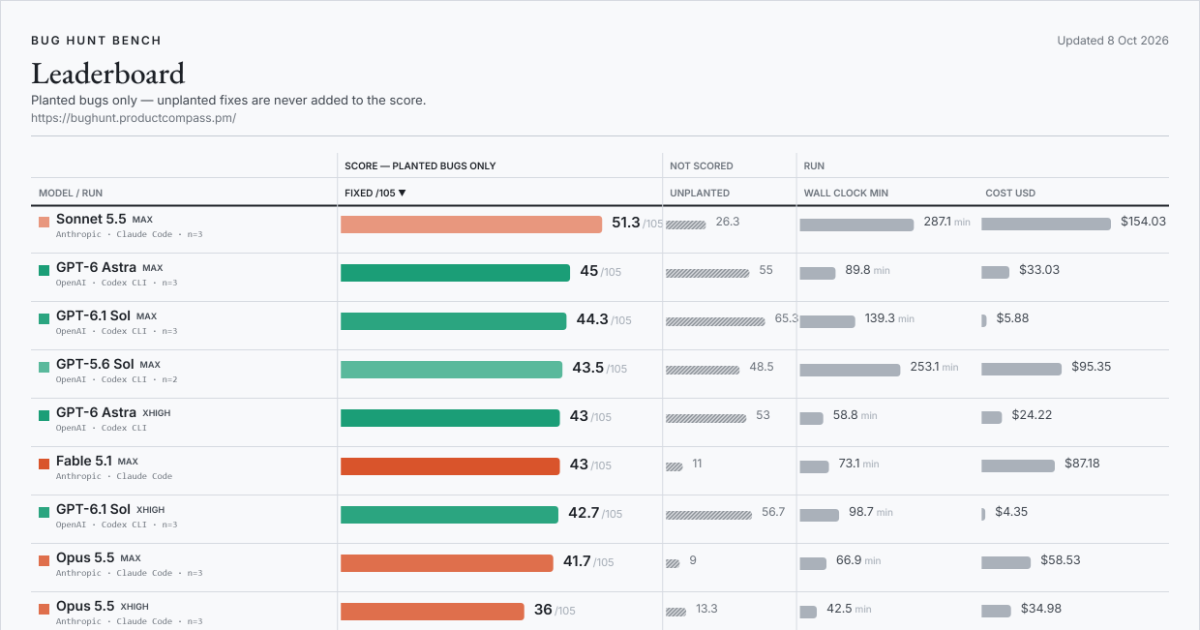
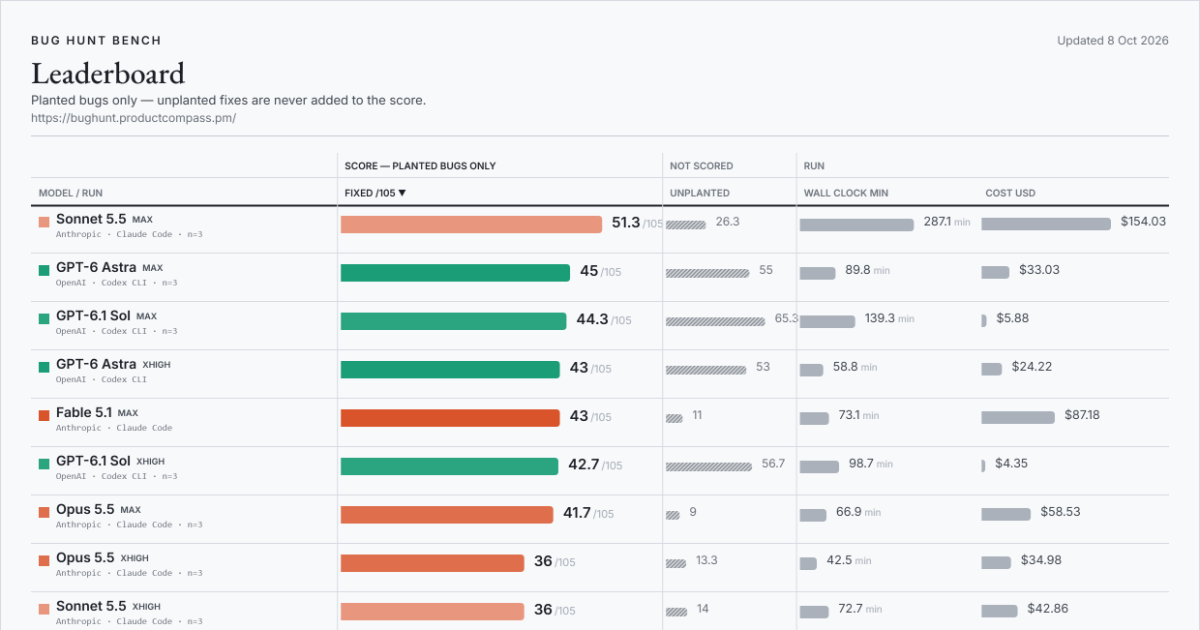
site: featured view - Haiku 5.5 max and xhigh in; Sonnet 5, Opus 5, Mistral Large 4 and GPT-5.6 Sol out

diff --git a/index.html b/index.html
@@ -22,14 +22,14 @@
 <meta property="og:title" content="Bug Hunt Bench — frontier coding models against real planted bugs">
 <meta property="og:description" content="A blind-graded benchmark of frontier coding models on real bugs planted in two production codebases. The score counts planted bugs only; extra fixes are tracked separately and never added.">
 <meta property="og:url" content="https://bughunt.productcompass.pm/">
-<meta property="og:image" content="https://bughunt.productcompass.pm/og-image.png?v=2026-10-08-44163af8">
+<meta property="og:image" content="https://bughunt.productcompass.pm/og-image.png?v=2026-10-08-add0164f">
 <meta property="og:image:width" content="1200">
 <meta property="og:image:height" content="630">
 <meta property="og:image:alt" content="Bug Hunt Bench leaderboard">
 <meta name="twitter:card" content="summary_large_image">
 <meta name="twitter:title" content="Bug Hunt Bench — frontier coding models against real planted bugs">
 <meta name="twitter:description" content="A blind-graded benchmark of frontier coding models on real bugs planted in two production codebases. The score counts planted bugs only.">
-<meta name="twitter:image" content="https://bughunt.productcompass.pm/og-image.png?v=2026-10-08-44163af8">
+<meta name="twitter:image" content="https://bughunt.productcompass.pm/og-image.png?v=2026-10-08-add0164f">
 <meta name="twitter:creator" content="@PawelHuryn">
 
 <link rel="icon" href="/assets/favicon.svg" type="image/svg+xml">

diff --git a/method.html b/method.html
@@ -20,14 +20,14 @@
 <meta property="og:title" content="Method, caveats and definitions — Bug Hunt Bench">
 <meta property="og:description" content="How Bug Hunt Bench is run and graded, what the board cannot tell you, and what every column on it means.">
 <meta property="og:url" content="https://bughunt.productcompass.pm/method">
-<meta property="og:image" content="https://bughunt.productcompass.pm/og-image.png?v=2026-10-08-44163af8">
+<meta property="og:image" content="https://bughunt.productcompass.pm/og-image.png?v=2026-10-08-add0164f">
 <meta property="og:image:width" content="1200">
 <meta property="og:image:height" content="630">
 <meta property="og:image:alt" content="Bug Hunt Bench leaderboard">
 <meta name="twitter:card" content="summary_large_image">
 <meta name="twitter:title" content="Method, caveats and definitions — Bug Hunt Bench">
 <meta name="twitter:description" content="How Bug Hunt Bench is run and graded, what the board cannot tell you, and what every column on it means.">
-<meta name="twitter:image" content="https://bughunt.productcompass.pm/og-image.png?v=2026-10-08-44163af8">
+<meta name="twitter:image" content="https://bughunt.productcompass.pm/og-image.png?v=2026-10-08-add0164f">
 <meta name="twitter:creator" content="@PawelHuryn">
 
 <link rel="icon" href="/assets/favicon.svg" type="image/svg+xml">

diff --git a/README.md b/README.md
@@ -7,7 +7,7 @@
 If the numbers save you a benchmark run of your own, **star this repo** — that is what keeps the bench findable, and new models are added as they ship.
 
 <!-- leaderboard:start -->
-![Bug Hunt Bench leaderboard, the featured runs, updated Oct 8, 2026](assets/leaderboard.png?v=2026-10-08-6c9df0ec)
+![Bug Hunt Bench leaderboard, the featured runs, updated Oct 8, 2026](assets/leaderboard.png?v=2026-10-08-4851ec43)
 
 **Updated Oct 8, 2026 · 172 rows from 207 scored runs · 42 models · 29 of 105 bugs have never been fixed by any model.**
 
